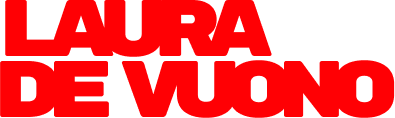
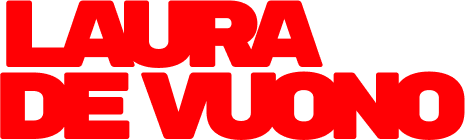
transitions

diff --git a/styles/styles.css b/styles/styles.css
@@ -333,6 +333,9 @@ header {
       -ms-flex-pack: center;
           justify-content: center;
   margin-top: 10px;
+}
+.name a {
+  width: 400px;
   -webkit-transition: 0.3s ease;
   transition: 0.3s ease;
 }
@@ -712,7 +715,7 @@ p {
   }
 }
 @media (max-width: 700px) {
-  .name {
+  .name a {
     width: 200px;
     margin: 10px auto;
   }

diff --git a/styles/sass/partials/_global.scss b/styles/sass/partials/_global.scss
@@ -70,7 +70,11 @@ header {
     display: flex;
     justify-content: center;
     margin-top: 10px;
-    transition: .3s ease;
+
+    a {
+        width: 400px;
+        transition: .3s ease;
+    }
 }
 
 .navUl {

diff --git a/styles/sass/partials/_mediaQueries.scss b/styles/sass/partials/_mediaQueries.scss
@@ -100,7 +100,7 @@
 
     // bio
 
-    .name {
+    .name a {
         width: 200px;
         margin: 10px auto;
     }
